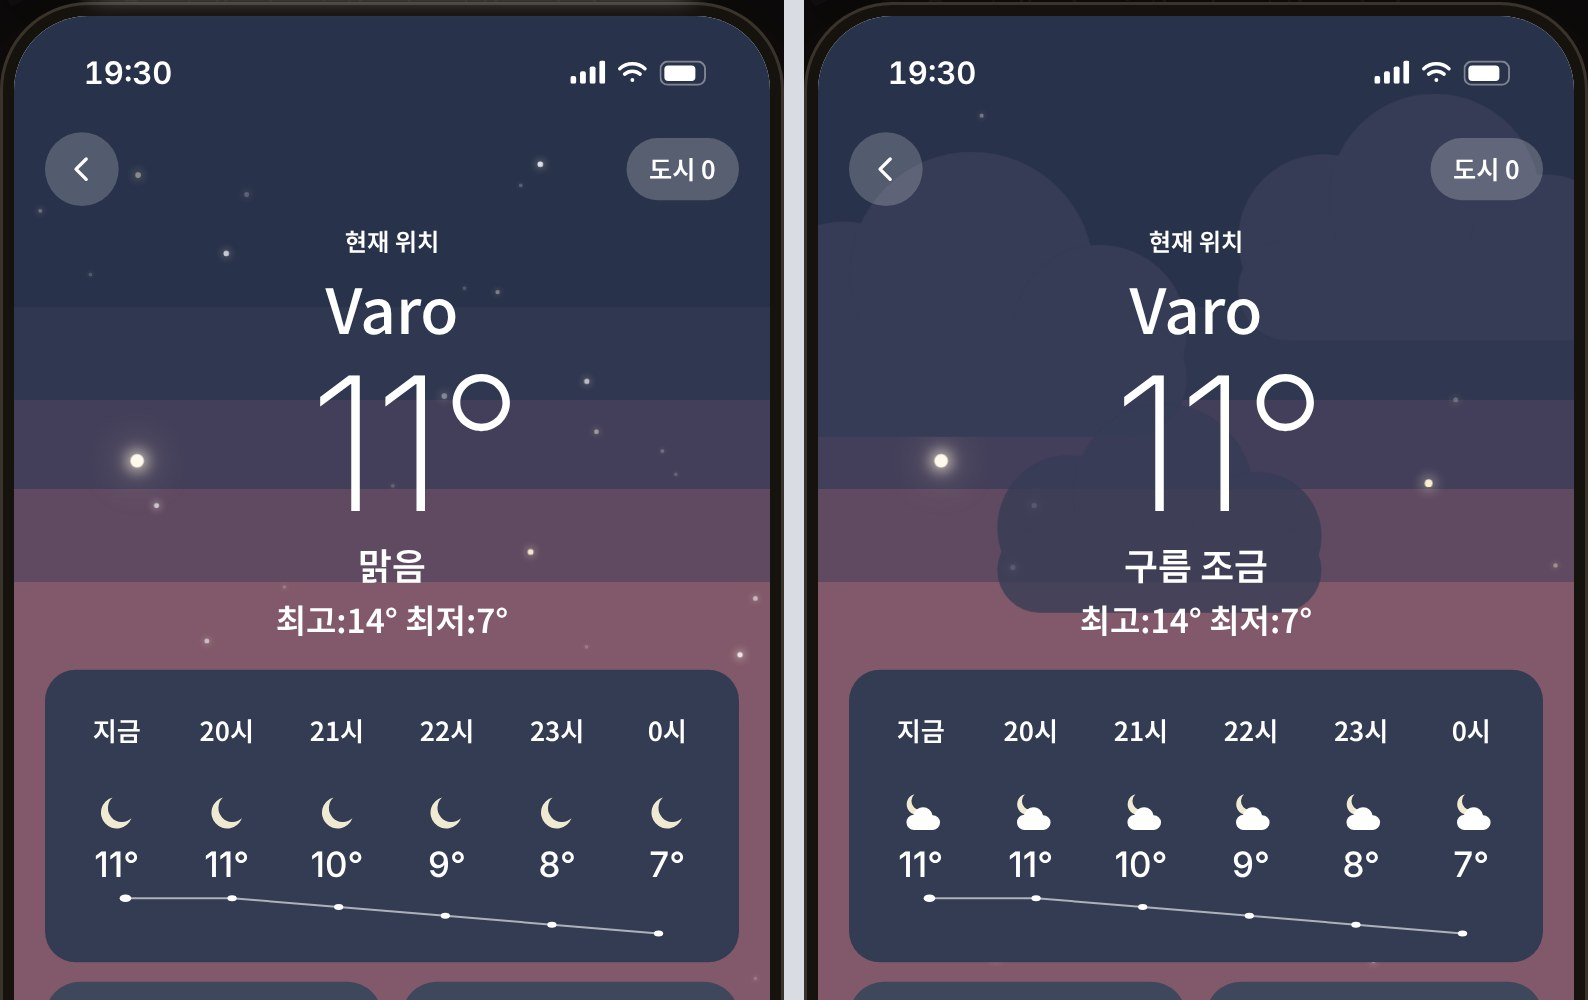
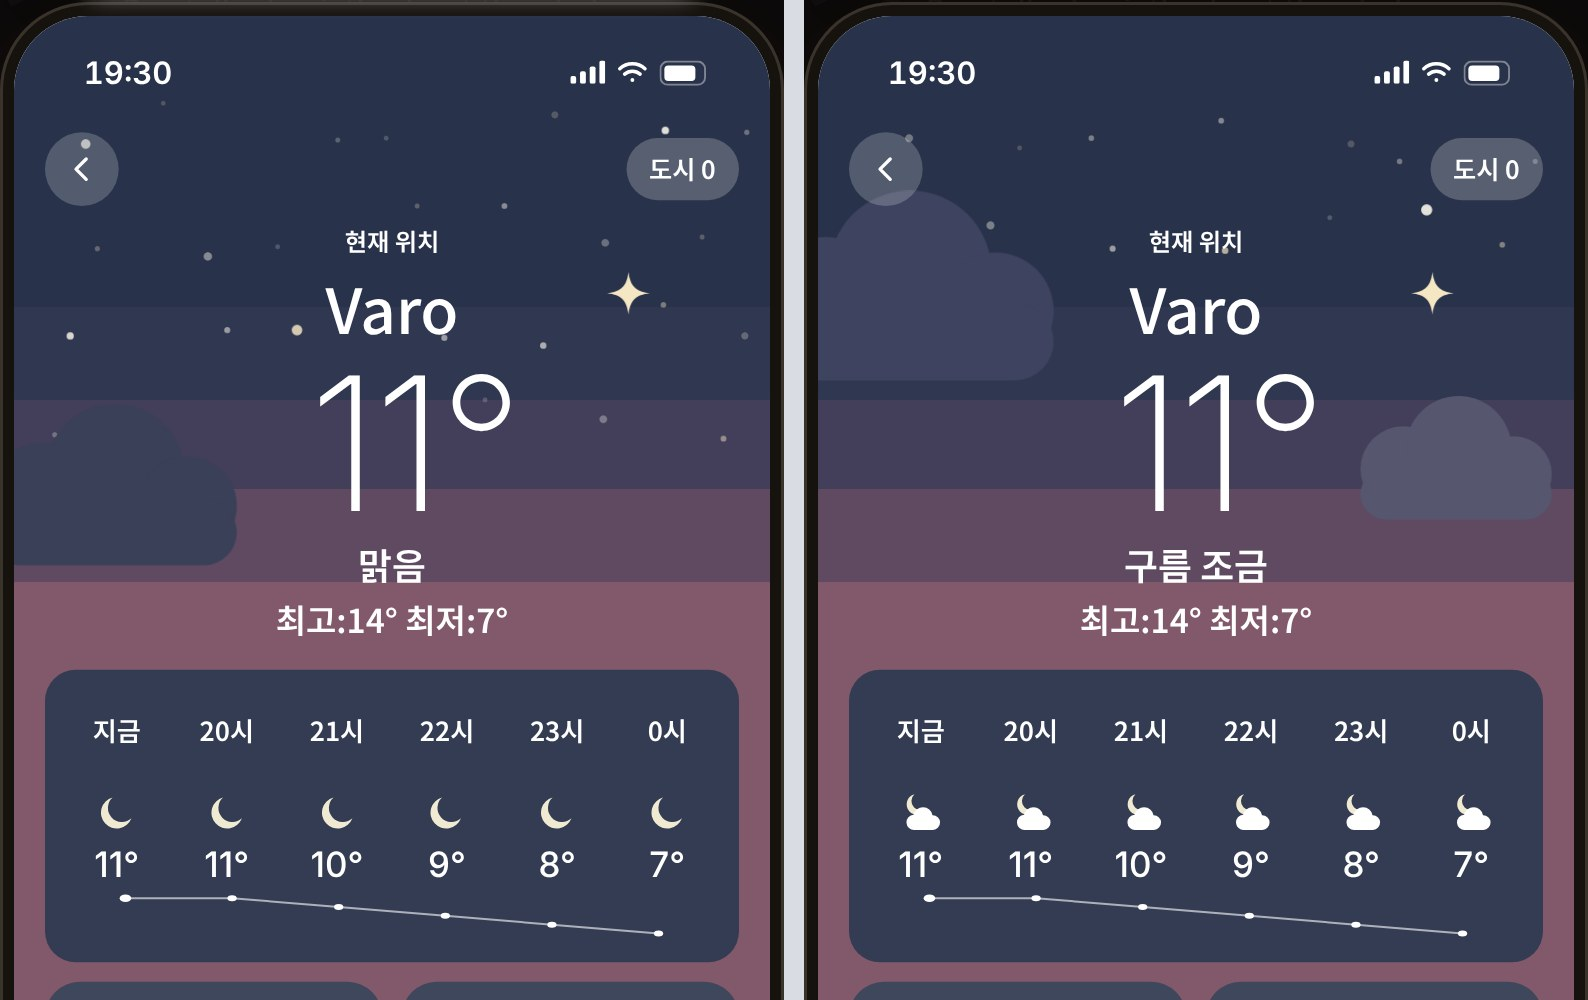
Weather mockup: 해 진 뒤 stars spread evenly over the upper sky, clear of the place and temperature (draft, not approved yet)
Claude-Session: https://claude.ai/code/session_01TBUyc4nvbfrUF2uL1hRtAL

diff --git a/src/phonelifeapps.js b/src/phonelifeapps.js
@@ -900,9 +900,13 @@ function scene(cond, phase) {
     cond = condOk(cond);
     const q = pal(cond, phase), r = rnd(cond.length * 31 + phase.length * 7), out = [];
     for (const [y, c] of q.bands || []) out.push(`<i class="bd" style="top: ${y}px; background: ${c}"></i>`);
-    // at dusk: flat round stars over the whole sky, two sizes, white and cream (no glow)
-    if (q.stars && phase === 'dusk') out.push(Array.from({ length: q.stars }, (_, k) => { const z = k % 4 === 0 ? 6 : 4;
-        return `<i class="st" style="left: ${Math.round(8 + r() * 374)}px; top: ${Math.round(40 + r() * 400)}px; width: ${z}px; height: ${z}px; background: ${k % 3 === 1 ? '#f6e7c4' : '#f4f1e8'}; --d: ${(4 + r() * 4).toFixed(1)}s; --dl: -${(r() * 5).toFixed(1)}s"></i>`; }).join(''));
+    // at dusk: flat round stars spread evenly over the dark upper sky (a loose grid, each nudged), fewer lower down, none behind the
+    // place and the temperature; two sizes, white and cream, no glow
+    if (q.stars && phase === 'dusk') { const pts = [];
+        for (let row = 0; row < 6; row++) for (let col = 0; col < 7; col++) { const x = 14 + col * 56 + r() * 40, y = 40 + row * 50 + r() * 34;
+            if (x > 110 && x < 280 && y > 205 && y < 350) continue; if (row >= 4 && r() < 0.5) continue; pts.push([x, y]); }
+        out.push(pts.slice(0, q.stars).map(([x, y], k) => { const z = k % 4 === 0 ? 6 : 4;
+            return `<i class="st" style="left: ${Math.round(x)}px; top: ${Math.round(y)}px; width: ${z}px; height: ${z}px; background: ${k % 3 === 1 ? '#f6e7c4' : '#f4f1e8'}; --d: ${(4 + r() * 4).toFixed(1)}s; --dl: -${(r() * 5).toFixed(1)}s"></i>`; }).join('')); }
     else if (q.stars) out.push(Array.from({ length: q.stars }, () => `<i class="st${phase === 'dawn' ? ' fd' : ''}" style="left: ${Math.round(10 + r() * 370)}px; top: ${Math.round(60 + r() * 360)}px; --d: ${(2 + r() * 3).toFixed(1)}s; --dl: -${(r() * 4).toFixed(1)}s"></i>`).join(''));
     const sun = (x, y, rad, core, halo, cls = '') => `<span class="sun ${cls}" style="left: ${x - rad * 2.4}px; top: ${y - rad * 2.4}px; width: ${rad * 4.8}px; height: ${rad * 4.8}px"><b style="background: ${halo}"></b><b class="h2" style="background: ${halo}"></b><i style="background: ${core}; width: ${rad * 2}px; height: ${rad * 2}px"></i></span>`;
     if (q.sun === 'day') out.push(cond === 'partly' ? sun(320, 190, 42, '#f6c94a', 'rgba(255, 255, 255, 0.14)') : sun(330, 210, 46, '#f6c94a', 'rgba(255, 255, 255, 0.14)'));
